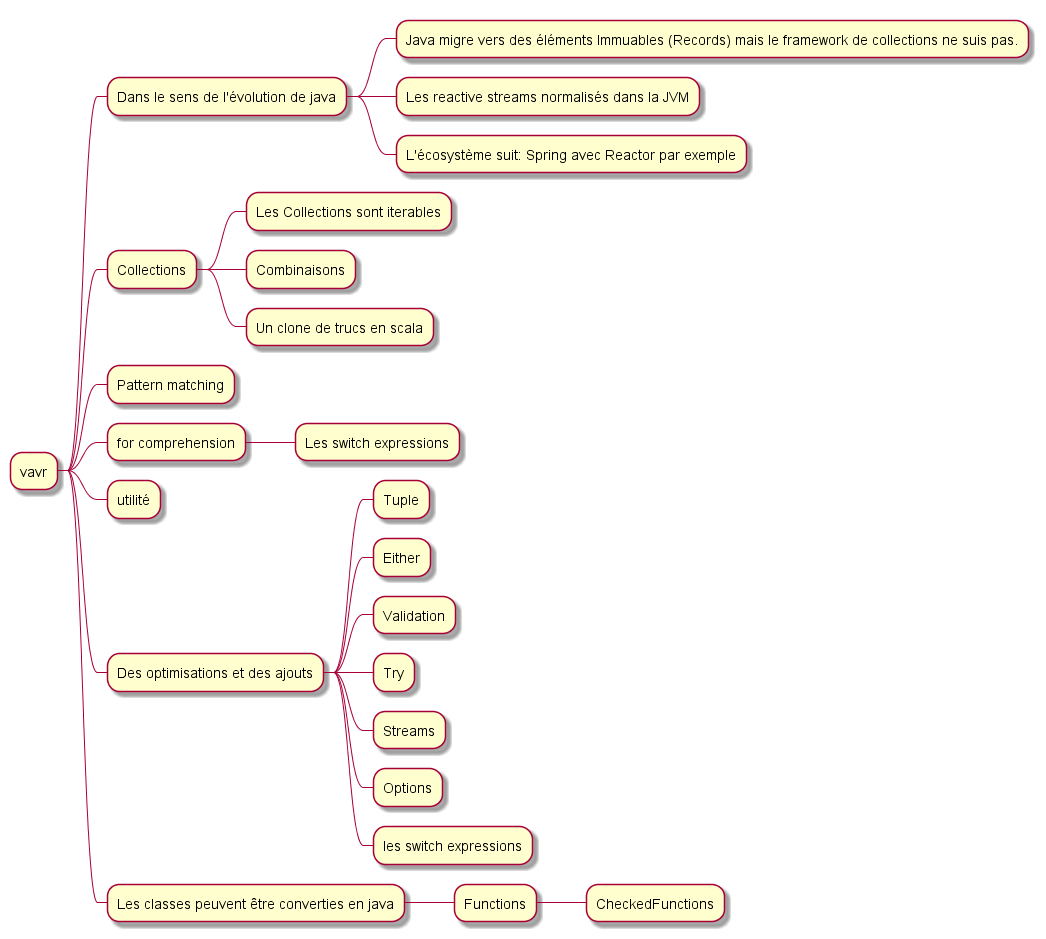
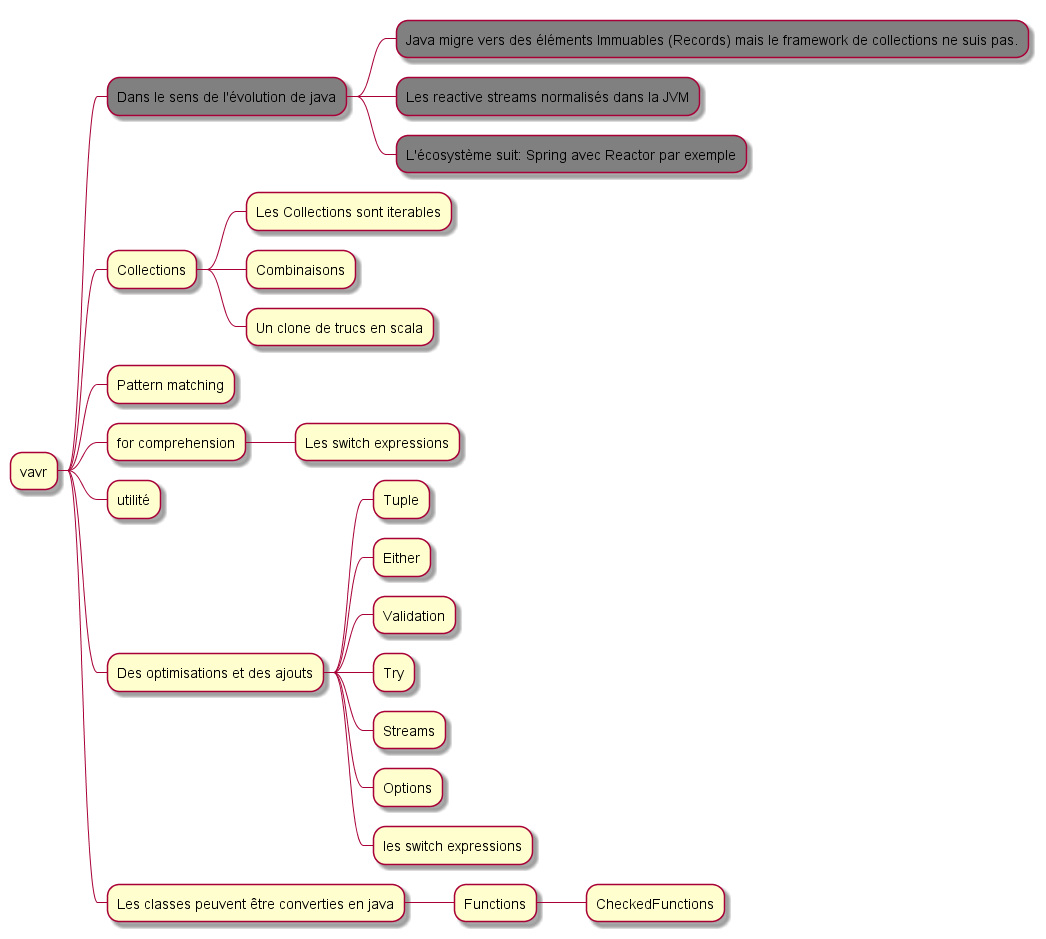
[feat(blog)] Introduction

Changed region(s): [[0.3671, 0.0, 1.0, 0.1853], [0.0918, 0.0618, 0.3365, 0.1235]]

diff --git a/intro.md b/intro.md
@@ -1,12 +1,24 @@
-# TODO titre
+# Mettez un pied dans le futur de java et le présent de Scala avec Vavr
 
+## Introduction
+L’écosystème java évolue vers les principes fonctionnels de nombreux pas restent encore a franchir. Nombres de changements (plus ou moins) récents participent à l’arrivée du paradigme fonctionnel dans l'écosystème java :
+* Java 8 et les lambdas des Functions et des Streams en java 8,
+* Les reactive streams dans Java ([java.util.concurrent.Flow](https://docs.oracle.com/javase/9/docs/api/java/util/concurrent/Flow.html)) et le framework omniprésent Spring de reactive streams, ([Reactor](https://projectreactor.io/))
+* Des changements plus profonds les switch expressions (Java 14), ou les Records (en preview) etc…
+
+D’autres langages comme Scala incluent des paradigmes, structures et syntaxes plus adaptées à la programmation fonctionnelle. Java ne pourra pas arriver au même confort d'utilisation de ces paradigmes sans modifications profondes du langage mais l'usage de librairies peut permettre de prendre un peu d'avance sur le langage.
+
+Ce que Jodatime à fait pour la manipulation du temps, Vavr se propose de le faire pour la composition de fonction, l’expressivité des types et les performances des collections dans le domaine fonctionnel.
+La librairie suit de près les changements dans Java et n'hésite pas à s'adapter, lorsqu’elle le juge pertinent en supprimant certains composants.
+
+L’utilisation d’une telle librairie ne doit pas se faire dans le but d'apprendre à faire du scala sans changer de langage. Il faut aussi toujours pondérer les pré-requis et les avantages de la librairie et de ses concurrents pour ne pas devoir entrer en guerre avec son Framework ou son langage. Le blog du projet est d’ailleurs transparent sur les objectifs du projet: Une API simple, être aussi rigoureux que possible en termes de types et ne pas refaire ce que fait déjà Java.
 ![
     @startmindmap headdump
     * vavr
-    ** Dans le sens de l'évolution de java
-    *** Java migre vers des éléments Immuables (Records) mais le framework de collections ne suis pas.
-    *** Les reactive streams normalisés dans la JVM
-    *** L'écosystème suit: Spring avec Reactor par exemple
+    **[#grey] Dans le sens de l'évolution de java
+    ***[#grey]  Java migre vers des éléments Immuables (Records) mais le framework de collections ne suis pas.
+    ***[#grey]  Les reactive streams normalisés dans la JVM
+    ***[#grey]  L'écosystème suit: Spring avec Reactor par exemple
     ** Collections
     *** Les Collections sont iterables
     *** Combinaisons
@@ -28,5 +40,3 @@
     **** CheckedFunctions
     @endmindmap
 ](documentation/assets/headdump.png)
-
-## Introduction
